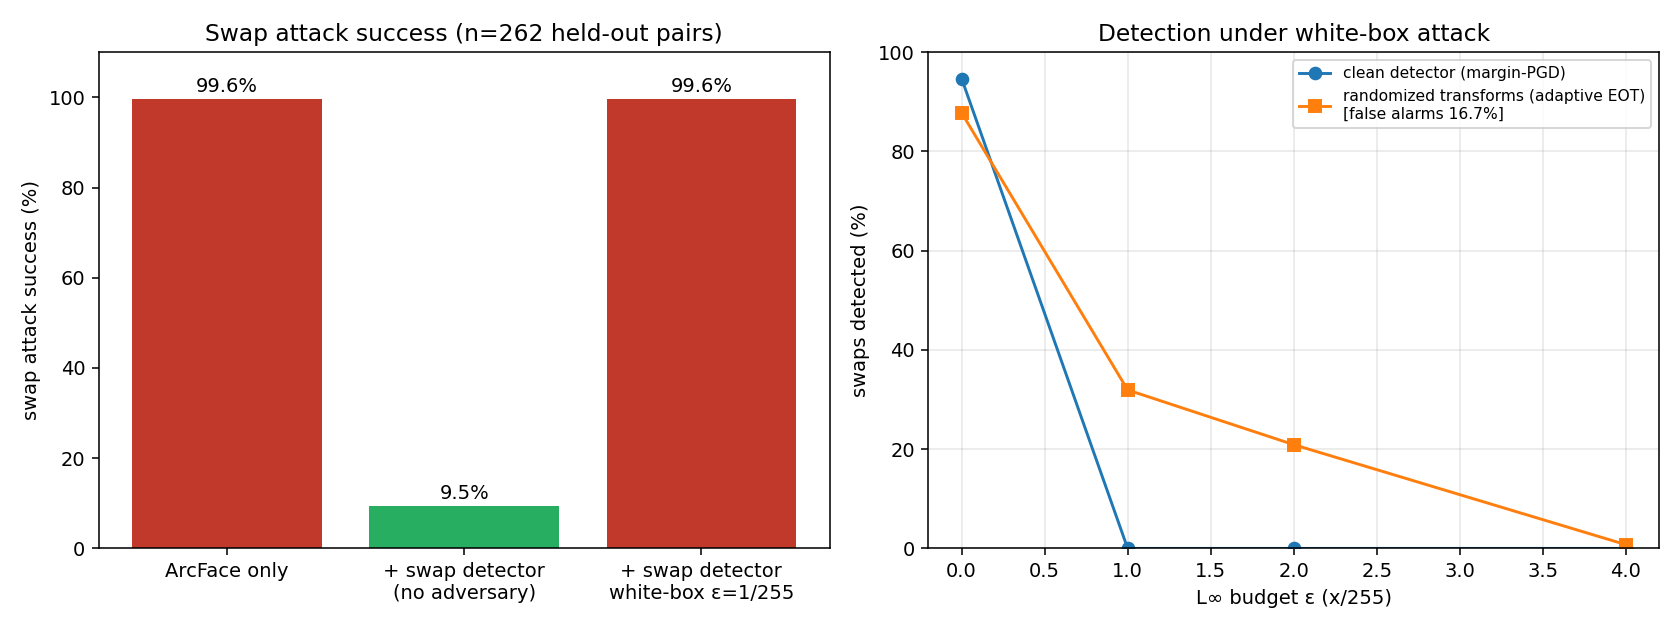
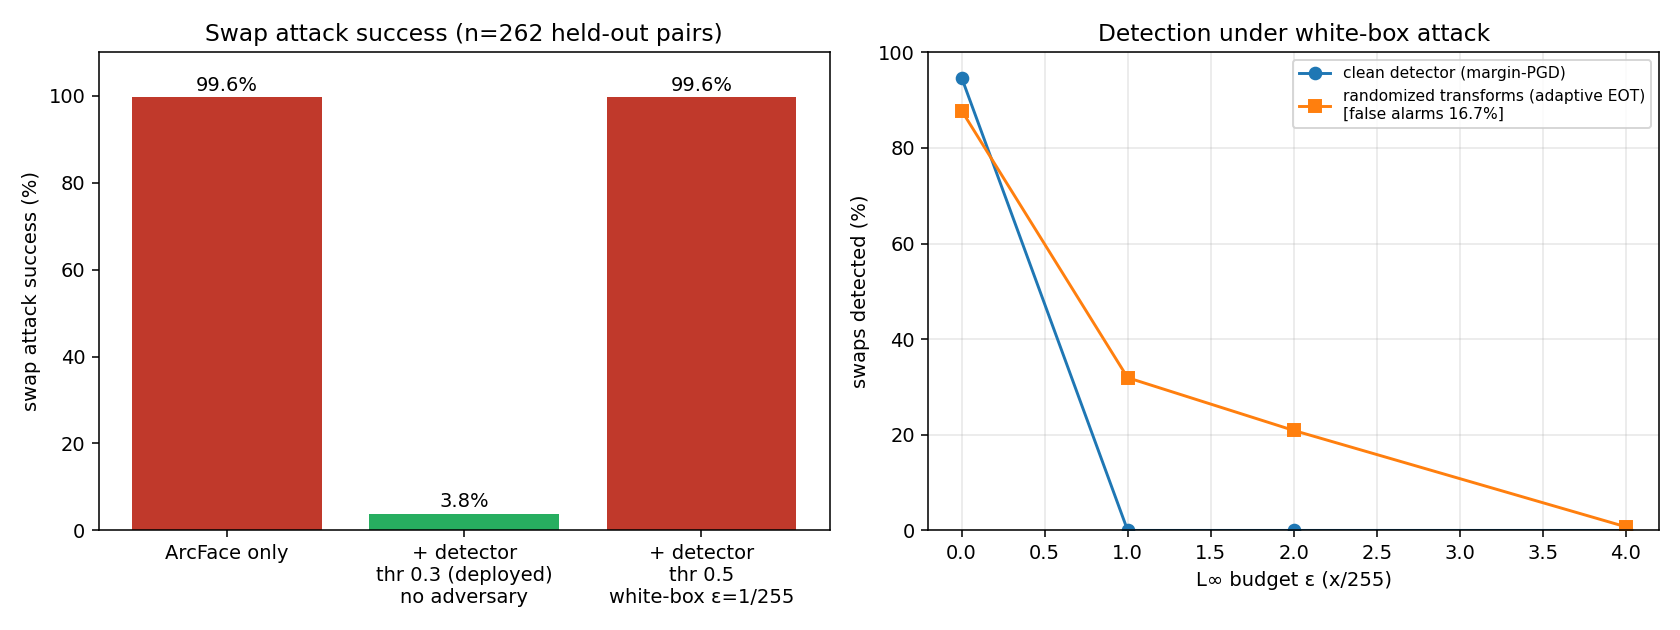
eval: measure the deployed operating point and fix the summary figure
The figure's "no adversary" bar was hardcoded as 1 - 0.905, the 0.8
threshold, not the deployed 0.3, and the docs only had a derived bound.

- eval_deployed.py: evaluates swapdet_deployed.pt on the held-out test
  split at thresholds 0.3 / 0.5 / 0.8 and writes
  eval_results/deployed_operating_point.json
- make_figures.py: read the bar from that file; relabel with the threshold
- docs/evaluation.md: end-to-end attack success at the deployed 0.3 is 3.8%
  (10 of 262), now measured; correct the figure caption

Existing result files are unchanged (0.5 -> 5.3% and 0.8 -> 9.5% match
system_results.json and the old figure).

diff --git a/unified-swap-defense/eval_deployed.py b/unified-swap-defense/eval_deployed.py
@@ -1,0 +1,30 @@
+"""Operating points of the DEPLOYED detector (models/swapdet_deployed.pt) on the held-out test split, no adversary.
+Attack success = ArcFace accepts the swap as the source identity AND the detector does not flag it (as in eval_system.py).
+Writes eval_results/deployed_operating_point.json. Usage: python eval_deployed.py"""
+import os, csv, json
+import numpy as np, torch
+from swapdet import Net
+from train_swapdet import DS, DATA, OUT, MODELS
+
+dev = "cuda" if torch.cuda.is_available() else "cpu"
+ARC_THR = json.load(open(os.path.join(os.path.dirname(os.path.dirname(os.path.abspath(__file__))), "experiments", "final_evaluation", "model_a_threshold.json")))["selected_threshold"]
+meta = {r["tag"]: r for r in csv.DictReader(open(os.path.join(DATA, "meta.csv"))) if r["split"] == "test"}
+ds = DS("test", False)
+tags = [os.path.splitext(os.path.basename(f))[0] for f, _ in ds.items]
+is_fake = np.array([c for _, c in ds.items])
+
+m = Net().to(dev).eval(); m.load_state_dict(torch.load(os.path.join(MODELS, "swapdet_deployed.pt"), map_location=dev, weights_only=True))
+p = []
+with torch.no_grad():
+    for i in range(0, len(ds), 32):
+        p.append(torch.sigmoid(m(torch.stack([ds[j][0] for j in range(i, min(i + 32, len(ds)))]).to(dev))).cpu())
+p = torch.cat(p).numpy()
+
+paired = np.array([i for i in np.where(is_fake == 1)[0] if tags[i] in meta])   # swaps with a recorded ArcFace similarity
+arc_ok = np.array([float(meta[tags[i]]["sim_to_source"]) >= ARC_THR for i in paired])
+res = {"weights": "swapdet_deployed.pt", "n_fake": int((is_fake == 1).sum()), "n_real": int((is_fake == 0).sum()), "n_pairs": int(len(paired)),
+       "arcface_threshold": ARC_THR, "attack_success_vs_ArcFace_only": float(arc_ok.mean()), "thresholds": {}}
+for t in (0.3, 0.5, 0.8):
+    res["thresholds"][str(t)] = {"swaps_caught": float((p[is_fake == 1] >= t).mean()), "real_flagged": float((p[is_fake == 0] >= t).mean()),
+                                 "attack_success_vs_system": float((arc_ok & (p[paired] < t)).mean())}
+json.dump(res, open(os.path.join(OUT, "deployed_operating_point.json"), "w"), indent=2); print(json.dumps(res, indent=1))

diff --git a/unified-swap-defense/make_figures.py b/unified-swap-defense/make_figures.py
@@ -5,11 +5,12 @@ import matplotlib; matplotlib.use("Agg"); import matplotlib.pyplot as plt
 R = os.path.join(os.path.dirname(os.path.abspath(__file__)), "eval_results")
 sysr = json.load(open(os.path.join(R, "system_results.json"))); rnd = json.load(open(os.path.join(R, "randomized_defense_clean.json")))
 mar = json.load(open(os.path.join(R, "margin_attack_results.json"))); sw = json.load(open(os.path.join(R, "swapdet_results.json")))
+dep = json.load(open(os.path.join(R, "deployed_operating_point.json")))   # python eval_deployed.py
 fig, ax = plt.subplots(1, 2, figsize=(12, 4.5))
 
 # (a) attack success against the verification system
-labels = ["ArcFace only", "+ swap detector\n(no adversary)", "+ swap detector\nwhite-box ε=1/255"]
-vals = [sysr["attack_success_vs_ArcFace_only"], 1 - 0.905, sysr["clean"]["attack_success_vs_system_margin_pgd_eps1/255"]]
+labels = ["ArcFace only", "+ detector\nthr 0.3 (deployed)\nno adversary", "+ detector\nthr 0.5\nwhite-box ε=1/255"]
+vals = [sysr["attack_success_vs_ArcFace_only"], dep["thresholds"]["0.3"]["attack_success_vs_system"], sysr["clean"]["attack_success_vs_system_margin_pgd_eps1/255"]]
 b = ax[0].bar(labels, [v * 100 for v in vals], color=["#c0392b", "#27ae60", "#c0392b"])
 for r, v in zip(b, vals): ax[0].text(r.get_x() + r.get_width() / 2, v * 100 + 1.5, f"{v * 100:.1f}%", ha="center")
 ax[0].set(ylabel="swap attack success (%)", title="Swap attack success (n=262 held-out pairs)", ylim=(0, 110))

diff --git a/unified-swap-defense/docs/evaluation.md b/unified-swap-defense/docs/evaluation.md
@@ -32,9 +32,9 @@ Per-frame results of the deployed detector on the held-out test crops:
 |---|---|---|---|
 | 0.8 | 90.5% | 1.1% | |
 | 0.5 | 94.7% | 4.2% | End-to-end attack success 5.3% (`system_results.json`) |
-| **0.3** | **96.2%** | **6.1%** | **Deployed.** Re-computed from `swapdet_deployed.pt` during this documentation pass. |
+| **0.3** | **96.2%** | **6.1%** | **Deployed.** End-to-end attack success 3.8% (10 of 262). From `eval_deployed.py`. |
 
-At 0.3, at most 3.8% of swaps are missed. Because ArcFace accepts 99.6% of them, end-to-end attack success is bounded by roughly that figure. This is derived, not separately measured.
+At the deployed 0.3, 3.8% of swaps get through the whole system (ArcFace accepts **and** the detector does not flag): 10 of 262 pairs. Measured by `eval_deployed.py` on `swapdet_deployed.pt`, written to `eval_results/deployed_operating_point.json`.
 
 Other quality numbers for the same model (`swapdet_results.json`, n = 526): accuracy 95.2% at 0.5, AUC 0.993.
 
@@ -95,7 +95,7 @@ Source: `randomized_defense_clean.json`. It helps a little at ε = 1/255, costs 
 
 ![Attack success and detection under attack](../eval_results/summary.png)
 
-*Left panel: the "+ swap detector (no adversary)" bar uses the 0.8 operating point (9.5% attack success), not the deployed 0.3. Right panel: detection of the plain and randomized detectors under white-box attack.*
+*Left panel: ArcFace alone, the deployed detector at 0.3 with no adversary (3.8%), and the detector at 0.5 under a white-box attack at ε = 1/255 (`system_results.json`). Right panel: detection of the plain and randomized detectors under white-box attack.*
 
 ## FaceGuard Keras model
 
@@ -119,6 +119,7 @@ python train_swapdet.py 10                    # clean, control, adversarial (eps
 python train_swapdet.py 10 1                  # adversarial only, eps 1/255
 python train_swapdet.py 10 1 0.25             # ... with adversarial loss weight 0.25
 python eval_system.py                         # -> eval_results/system_results.json
+python eval_deployed.py                       # -> eval_results/deployed_operating_point.json (deployed weights, thresholds 0.3 / 0.5 / 0.8)
 python eval_margin_attack.py                  # -> margin_attack_results.json
 python eval_randomized.py                     # -> randomized_defense_clean.json
 python eval_faceguard.py                      # FaceGuard on FF++
